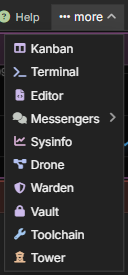
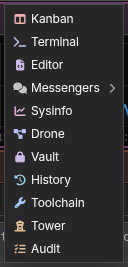
docs: retake the More list screenshot from 0.60.8 and list its entries in the released order
Agent: opaz@charlie

diff --git a/src/content/docs/pane-types.md b/src/content/docs/pane-types.md
@@ -10,7 +10,7 @@ AgentMux organizes your workspace into panes — individual views that can be sp
 
 ## Available Pane Types
 
-By default the widget bar pins **Agent**, **Swarm**, **Memory**, **Connectors**, **Files**, **Browser**, **Settings** and **Help**, in that order; Kanban, Terminal, Editor, Messengers, Sysinfo, Drone, Vault, History, Audit, Toolchain and Tower are under **more** (Remotes, once a widget of its own, is now a section of [Connectors](/connectors/#remotes), and Media is now part of the [Editor](#media)). The Vault, History and Audit were sections of the Warden pane before it was split up (see [Warden](/warden/)). See [Sections](/widgets/#sections) to give any section a button. These are the defaults for a widget bar you haven't customised; one you have keeps its pins, and **Reset widget bar** (below) brings back the defaults. If you had customised the bar and pinned the Armory (the pane Connectors and Memory replaced), Knowledge (Memory's earlier name) or Remotes, AgentMux replaces those pins with the new panes the first time it starts after updating. A saved Media pin shows as the Editor (`frontend/app/window/action-widgets-config.ts:190-193`). Right-click a widget to pin or unpin it. As the title bar gets narrower, the bar first drops its labels and then moves widgets that no longer fit under **more** (`crates/srv/src/config/widgets.json`, `frontend/app/window/action-widgets.tsx`). The `widget:icononly` setting drops the labels at any width.
+By default the widget bar pins **Agent**, **Swarm**, **Memory**, **Connectors**, **Files**, **Browser**, **Settings** and **Help**, in that order; Kanban, Terminal, Editor, Messengers, Sysinfo, Drone, Vault, History, Toolchain, Tower and Audit are under **more** (Remotes, once a widget of its own, is now a section of [Connectors](/connectors/#remotes), and Media is now part of the [Editor](#media)). The Vault, History and Audit were sections of the Warden pane before it was split up (see [Warden](/warden/)). See [Sections](/widgets/#sections) to give any section a button. These are the defaults for a widget bar you haven't customised; one you have keeps its pins, and **Reset widget bar** (below) brings back the defaults. If you had customised the bar and pinned the Armory (the pane Connectors and Memory replaced), Knowledge (Memory's earlier name) or Remotes, AgentMux replaces those pins with the new panes the first time it starts after updating. A saved Media pin shows as the Editor (`frontend/app/window/action-widgets-config.ts:190-193`). Right-click a widget to pin or unpin it. As the title bar gets narrower, the bar first drops its labels and then moves widgets that no longer fit under **more** (`crates/srv/src/config/widgets.json`, `frontend/app/window/action-widgets.tsx`). The `widget:icononly` setting drops the labels at any width.
 
 ### Pin, keep in More, or hide
 

diff --git a/src/content/docs/installation.md b/src/content/docs/installation.md
@@ -161,7 +161,7 @@ The first window opens a starter layout of three panes:
 
 New windows start with the same layout (`crates/srv/src/backend/wcore/mod.rs`, `default_three_pane_tree`), and so do new tabs (`frontend/app/tab/tab-presets.ts`, `DEFAULT_TAB_PRESET`). Your windows make up **Default Workspace**, which AgentMux saves as you work and reopens at the next launch. See [Workspaces](/workspaces/).
 
-The **widget bar** at the top right opens panes. By default it pins **Agent**, **Swarm**, **Memory**, **Connectors**, **Files**, **Browser**, **Settings** and **Help**, in that order (`crates/srv/src/config/widgets.json`). The rest are under **more**: Kanban, Terminal, Editor, Messengers, Sysinfo, Drone, Vault, History, Audit, Toolchain and Tower. Right-click a widget to pin it to the bar or unpin it. As the title bar gets narrower, the bar first drops its labels and then moves widgets that no longer fit under **more**.
+The **widget bar** at the top right opens panes. By default it pins **Agent**, **Swarm**, **Memory**, **Connectors**, **Files**, **Browser**, **Settings** and **Help**, in that order (`crates/srv/src/config/widgets.json`). The rest are under **more**: Kanban, Terminal, Editor, Messengers, Sysinfo, Drone, Vault, History, Toolchain, Tower and Audit. Right-click a widget to pin it to the bar or unpin it. As the title bar gets narrower, the bar first drops its labels and then moves widgets that no longer fit under **more**.
 
 ![The top bar: the hamburger menu, a window tab, the widget bar (Agent, Swarm, Memory, Connectors, Files, Browser, Settings, Help and more) and the window buttons](../../assets/screenshots/chrome/chrome-top-bar.png)
 

diff --git a/src/content/docs/window.md b/src/content/docs/window.md
@@ -28,7 +28,7 @@ The main window reopens where you left it, and maximized if it was, after a quit
 
 Hover **more** (or click it) to list the widgets that aren't pinned to the bar. Click one to open it.
 
-![The More list open under the widget bar, listing the widgets that aren't pinned: Kanban, Terminal, Editor, Messengers, Sysinfo, Drone, Warden, Vault, Toolchain and Tower](../../assets/screenshots/chrome/chrome-more-dropdown.png)
+![The More list open under the widget bar, listing the widgets that aren't pinned: Kanban, Terminal, Editor, Messengers, Sysinfo, Drone, Vault, History, Toolchain, Tower and Audit](../../assets/screenshots/chrome/chrome-more-dropdown.png)
 
 ### A tab's menu
 
